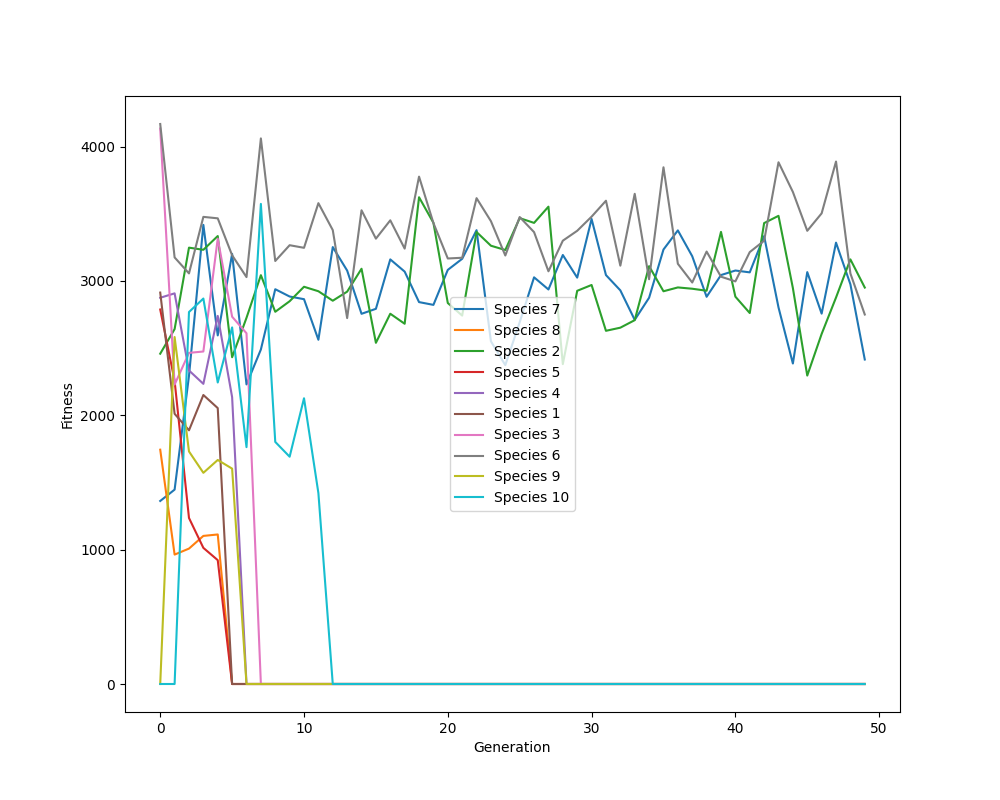
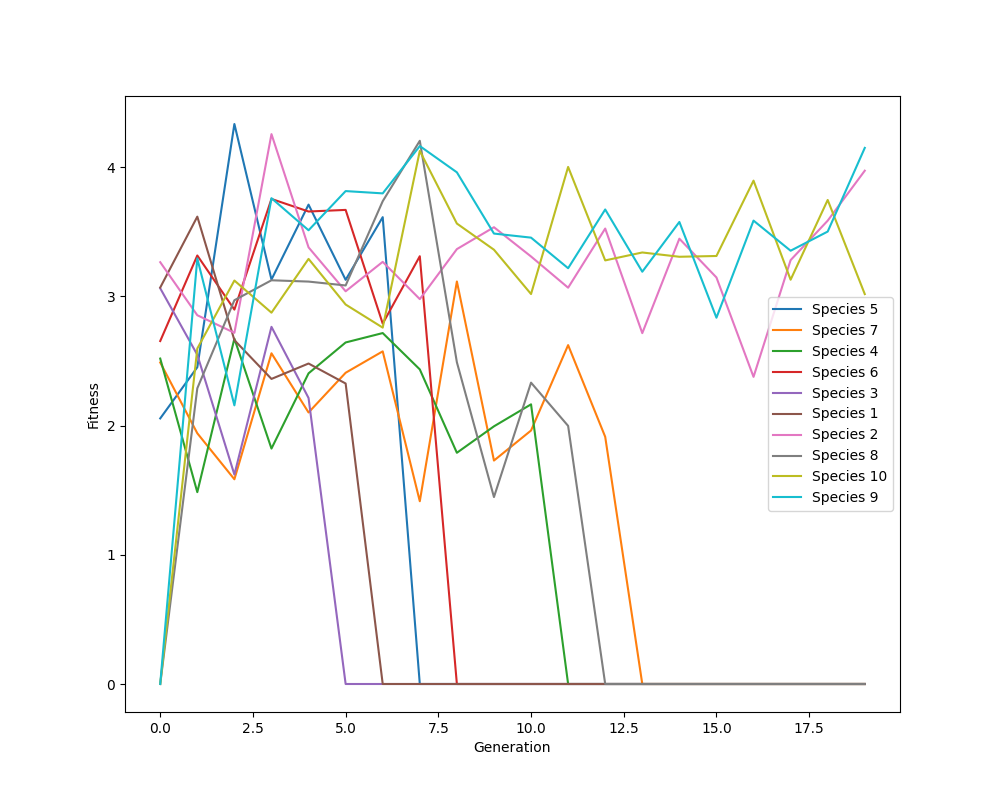
Fix rewards

diff --git a/main.py b/main.py
@@ -19,12 +19,13 @@ def species_fitness_function(species_fitnesses: list[float]) -> float:
 
 
 def evaluate_network(network: RecurrentNetwork) -> float:
-    env = gym.make("Grid-v0", max_total_steps=24 * 100)
+    num_days = 100
+    env = gym.make("Grid-v0", max_total_steps=24 * num_days)
 
-    max_episodes = 10
+    num_episodes = 10
     total_reward = 0.0
 
-    for episode in range(max_episodes):
+    for episode in range(num_episodes):
         step_count = 0
         ep_reward = 0
         terminated = False
@@ -55,8 +56,8 @@ def evaluate_network(network: RecurrentNetwork) -> float:
             state = next_state
 
         # print(f"Episode: {episode}, Step count: {step_count}, Episode reward: {ep_reward}")
-        total_reward += ep_reward
-    return total_reward
+        total_reward += ep_reward / num_days
+    return total_reward / num_episodes
 
 
 def evaluate_genome(idx_genome: tuple[int, Genome]) -> tuple[int, float]:
@@ -82,10 +83,10 @@ def main():
     neat_config = NeatParams(
         population_size=20,
 
-        repro_survival_rate=0.1,
+        repro_survival_rate=0.1,    # What percentage of species' top members are used for reproduction
         min_species_size=2,
         max_stagnation=5,
-        num_surviving_elite_species=3,
+        num_surviving_elite_species=3,  # Minimum number of species to be retained
 
         compatibility_threshold=0.3,
         disjoint_coefficient=1.0,
@@ -113,7 +114,7 @@ def main():
     )
     evolution = Evolution(8, 4, neat_config, species_fitness_function)
     start_t = time.perf_counter()
-    winning_genome = evolution.run(neat_fitness_function, fitness_goal=1e9, n=50)
+    winning_genome = evolution.run(neat_fitness_function, fitness_goal=1e9, n=20)
     end_t = time.perf_counter()
     print(f"\nWinning genome: {winning_genome}\nFitness: {winning_genome.fitness}")
     print(f"total run time: {(end_t - start_t):.2f} seconds")
